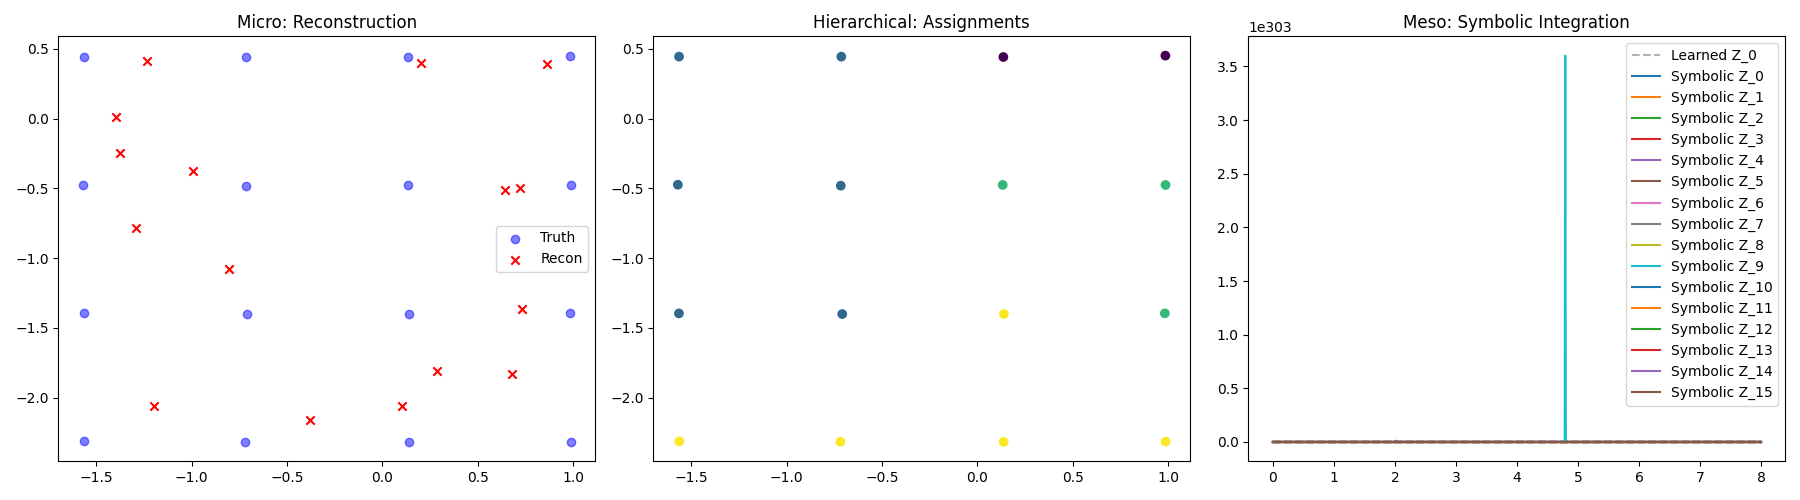
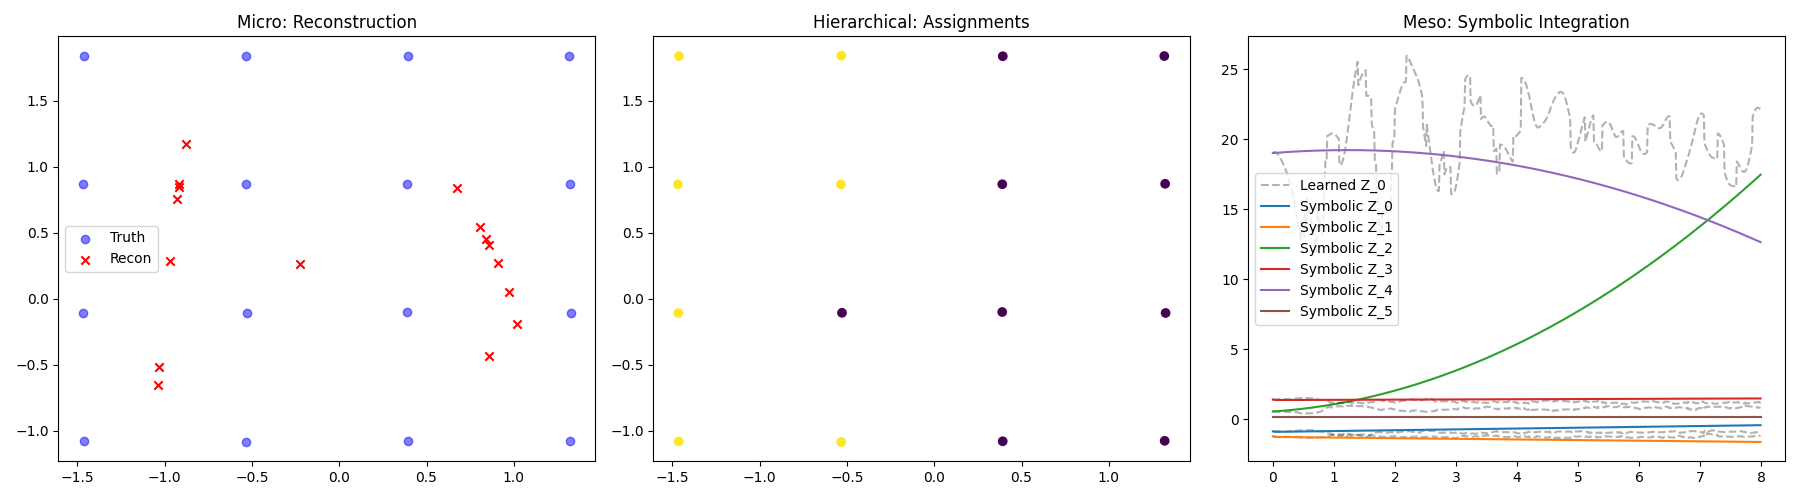
updated

diff --git a/engine.py b/engine.py
@@ -50,7 +50,7 @@ def prepare_data(pos, vel, radius=1.1, stats=None, device='cpu'):
     return dataset, stats
 
 class Trainer:
-    def __init__(self, model, lr=1e-3, device='cpu', loss_weights=None, stats=None):
+    def __init__(self, model, lr=5e-4, device='cpu', loss_weights=None, stats=None):
         self.model = model.to(device)
         self.device = device
         
@@ -69,70 +69,96 @@ class Trainer:
             'rec': 1.0,
             'cons': 5.0,
             'assign': 2.0,
+            'ortho': 1.0,      # New orthogonality loss weight
             'latent_l2': 0.01  # Added to prevent state drift
         }
         if loss_weights is not None:
             default_weights.update(loss_weights)
         self.weights = default_weights
 
-    def train_step(self, data_list, dt, epoch=0):
+    def train_step(self, data_list, dt, epoch=0, teacher_forcing_ratio=0.5):
         self.optimizer.zero_grad()
         seq_len = len(data_list)
         
+        # Anneal Gumbel-Softmax temperature
+        tau = max(0.1, 1.0 - epoch / 2000.0)
+        
+        # Warmup phase: Only Reconstruction loss for the first 100 epochs
+        is_warmup = epoch < 100
+        
         # 1. Encode the first state
         batch_0 = Batch.from_data_list([data_list[0]]).to(self.device)
-        z_0, s_0, entropy_0 = self.model.encode(batch_0.x, batch_0.edge_index, batch_0.batch)
-        
-        # 2. Predict full sequence in latent space
-        t_span = torch.linspace(0, (seq_len - 1) * dt, seq_len, device=self.device, dtype=torch.float32)
-        z_pred_seq = self.model.forward_dynamics(z_0, t_span)
+        z_curr, s_0, entropy_0 = self.model.encode(batch_0.x, batch_0.edge_index, batch_0.batch, tau=tau)
         
         loss_rec = 0
         loss_cons = 0
-        loss_assign = entropy_0 # Initialize with first entropy
-        loss_l2 = torch.mean(z_pred_seq**2) # Penalize large latent values to ground the space
+        loss_assign = entropy_0
+        loss_ortho = self.model.get_ortho_loss(s_0)
+        loss_l2 = 0
         
         s_prev = s_0
+        
+        # Prediction sequence for integration
+        z_preds = [z_curr]
+        
+        for t in range(1, seq_len):
+            # Teacher Forcing: Occasionally use ground truth encoding as next step input
+            if not is_warmup and np.random.random() < teacher_forcing_ratio:
+                batch_t_prev = Batch.from_data_list([data_list[t-1]]).to(self.device)
+                z_curr, _, _ = self.model.encode(batch_t_prev.x, batch_t_prev.edge_index, batch_t_prev.batch, tau=tau)
+            
+            # Predict next latent state via ODE
+            t_span = torch.tensor([0, dt], device=self.device, dtype=torch.float32)
+            z_next_seq = self.model.forward_dynamics(z_curr, t_span)
+            z_curr = z_next_seq[1] # Next step prediction
+            z_preds.append(z_curr)
+            
+        z_preds = torch.stack(z_preds)
+        loss_l2 = torch.mean(z_preds**2)
         
         for t in range(seq_len):
             batch_t = Batch.from_data_list([data_list[t]]).to(self.device)
             
+            # Encode target for consistency check
+            z_t_target, s_t, entropy_t = self.model.encode(batch_t.x, batch_t.edge_index, batch_t.batch, tau=tau)
+            
             # Reconstruction loss at each step
-            _, s_t, entropy_t = self.model.encode(batch_t.x, batch_t.edge_index, batch_t.batch)
-            recon_t = self.model.decode(z_pred_seq[t], s_t, batch_t.batch)
+            recon_t = self.model.decode(z_preds[t], s_t, batch_t.batch)
             loss_rec += self.criterion(recon_t, batch_t.x)
             
-            # Assignment consistency loss: minimize change in super-node identity
-            # AND diversity loss (entropy)
+            # Assignment and Orthogonality losses
             loss_assign += entropy_t
+            loss_ortho += self.model.get_ortho_loss(s_t)
+            
             if t > 0:
                 loss_assign += self.criterion(s_t, s_prev)
                 # Consistency loss (encoding of real state vs predicted latent state)
-                z_t_target, _, _ = self.model.encode(batch_t.x, batch_t.edge_index, batch_t.batch)
-                loss_cons += self.criterion(z_pred_seq[t], z_t_target)
+                loss_cons += self.criterion(z_preds[t], z_t_target)
             
             s_prev = s_t
         
         loss_rec /= seq_len
         loss_cons /= (seq_len - 1)
         loss_assign /= seq_len
+        loss_ortho /= seq_len
         
-        # Dynamic Loss Weighting: Faster annealing to ensure dynamics are learned early
-        anneal = min(1.0, epoch / 800.0) if epoch > 50 else 0.1
-        
-        # Apply configurable weights
-        # We increase the importance of consistency dynamically if it's lagging
-        cons_weight = self.weights['cons']
-        if loss_cons.item() > loss_rec.item() * 5: # Lowered threshold for boost
-            cons_weight *= 2.0
+        # Dynamic Loss Weighting
+        if is_warmup:
+            loss = self.weights['rec'] * loss_rec + self.weights['assign'] * loss_assign
+        else:
+            anneal = min(1.0, (epoch - 100) / 700.0)
+            
+            cons_weight = self.weights['cons']
+            if loss_cons.item() > loss_rec.item() * 5:
+                cons_weight *= 2.0
 
-        loss = (self.weights['rec'] * loss_rec + 
-                anneal * (cons_weight * loss_cons + 
-                         self.weights['latent_l2'] * loss_l2) +
-                self.weights['assign'] * loss_assign)
+            loss = (self.weights['rec'] * loss_rec + 
+                    anneal * (cons_weight * loss_cons + 
+                             self.weights['latent_l2'] * loss_l2) +
+                    self.weights['assign'] * loss_assign +
+                    self.weights['ortho'] * loss_ortho)
         
         loss.backward()
-        # Gradient Clipping to handle exploding gradients from ODE solver
         torch.nn.utils.clip_grad_norm_(self.model.parameters(), max_norm=1.0)
         self.optimizer.step()
         

diff --git a/model.py b/model.py
@@ -10,6 +10,8 @@ class GNNLayer(MessagePassing):
         self.mlp = nn.Sequential(
             nn.Linear(2 * in_channels, out_channels),
             nn.ReLU(),
+            nn.Linear(out_channels, out_channels),
+            nn.ReLU(),
             nn.Linear(out_channels, out_channels)
         )
 
@@ -24,6 +26,7 @@ class HierarchicalPooling(nn.Module):
     """
     Learned soft-assignment pooling to preserve spatial locality 
     by aggregating nodes into a fixed number of super-nodes.
+    Uses Gumbel-Softmax for 'harder' assignments.
     """
     def __init__(self, in_channels, n_super_nodes):
         super(HierarchicalPooling, self).__init__()
@@ -34,16 +37,18 @@ class HierarchicalPooling(nn.Module):
             nn.Linear(in_channels, n_super_nodes)
         )
 
-    def forward(self, x, batch):
+    def forward(self, x, batch, tau=1.0, hard=False):
         # x: [N, in_channels], batch: [N]
-        # Compute soft-assignment matrix s: [N, n_super_nodes]
-        s = torch.softmax(self.assign_mlp(x), dim=-1)
+        # Compute assignment logits
+        logits = self.assign_mlp(x)
+        
+        # Use Gumbel-Softmax for harder, more distinct assignments
+        s = nn.functional.gumbel_softmax(logits, tau=tau, hard=hard, dim=-1)
         
         # 1. Sharpness Loss (Minimize entropy per node)
         entropy = -torch.mean(torch.sum(s * torch.log(s + 1e-9), dim=1))
         
         # 2. Diversity Loss (Maximize entropy of average assignment)
-        # We add the negative entropy of the average assignment to the loss
         avg_s = s.mean(dim=0)
         diversity_loss = torch.sum(avg_s * torch.log(avg_s + 1e-9))
         
@@ -76,12 +81,12 @@ class GNNEncoder(nn.Module):
             nn.Linear(hidden_dim, latent_dim)
         )
 
-    def forward(self, x, edge_index, batch):
+    def forward(self, x, edge_index, batch, tau=1.0):
         x = self.ln1(torch.relu(self.gnn1(x, edge_index)))
         x = self.ln2(torch.relu(self.gnn2(x, edge_index)))
         
         # Pool to K super-nodes preserving spatial features
-        pooled, s, entropy = self.pooling(x, batch) # [batch_size, n_super_nodes, hidden_dim], [N, n_super_nodes]
+        pooled, s, entropy = self.pooling(x, batch, tau=tau) # [batch_size, n_super_nodes, hidden_dim], [N, n_super_nodes]
         latent = self.output_layer(pooled) # [batch_size, n_super_nodes, latent_dim]
         return latent, s, entropy
 
@@ -142,11 +147,19 @@ class DiscoveryEngineModel(nn.Module):
         self.ode_func = LatentODEFunc(latent_dim, n_super_nodes, hidden_dim)
         self.decoder = GNNDecoder(latent_dim, hidden_dim, node_features)
         
-    def encode(self, x, edge_index, batch):
-        return self.encoder(x, edge_index, batch)
+    def encode(self, x, edge_index, batch, tau=1.0):
+        return self.encoder(x, edge_index, batch, tau=tau)
     
     def decode(self, z, s, batch):
         return self.decoder(z, s, batch)
+    
+    def get_ortho_loss(self, s):
+        # s: [N, n_super_nodes]
+        # Encourage orthogonality between super-node assignment vectors
+        # s^T * s should be close to identity (weighted by number of particles)
+        dots = torch.matmul(s.t(), s)
+        identity = torch.eye(s.size(1), device=s.device) * (s.size(0) / s.size(1))
+        return torch.mean((dots - identity)**2)
     
     def forward_dynamics(self, z0, t):
         # z0: [batch_size, n_super_nodes, latent_dim]

diff --git a/symbolic.py b/symbolic.py
@@ -16,7 +16,7 @@ class SymbolicDistiller:
                                  p_crossover=0.7, p_subtree_mutation=0.1, # Shifted towards crossover
                                  p_hoist_mutation=0.05, p_point_mutation=0.1,
                                  max_samples=0.9, verbose=0, 
-                                 parsimony_coefficient=0.05, # Increased to avoid trivial/overfit laws
+                                 parsimony_coefficient=0.1, # Increased to force simpler, physics-like laws
                                  random_state=42)
 
     def distill(self, latent_states, latent_derivs, times=None):
@@ -29,12 +29,22 @@ class SymbolicDistiller:
         X = (latent_states - z_mean) / z_std
         Y = (latent_derivs - dz_mean) / dz_std
 
+        # Feature Engineering: Add squared terms and interaction terms
+        n_features = X.shape[1]
+        features = [X]
+        for i in range(n_features):
+            features.append((X[:, i]**2).reshape(-1, 1))
+            for j in range(i + 1, n_features):
+                features.append((X[:, i] * X[:, j]).reshape(-1, 1))
+        
+        X_poly = np.hstack(features)
+
         if times is not None:
             # Normalize times as well if provided
             t_mean = times.mean()
             t_std = times.std() + 1e-6
             t_norm = (times - t_mean) / t_std
-            X = np.column_stack([X, t_norm])
+            X_poly = np.column_stack([X_poly, t_norm])
 
         equations = []
         for i in range(latent_derivs.shape[1]):
@@ -44,17 +54,16 @@ class SymbolicDistiller:
             
             print(f"Distilling dz_{i}/dt (Coarse search: pop={coarse_pop}, gen={coarse_gen})...")
             est = self._get_regressor(coarse_pop, coarse_gen)
-            est.fit(X, Y[:, i])
+            est.fit(X_poly, Y[:, i])
             
             # Check fit quality (if possible via gplearn score)
-            # score is R^2. If > 0.95, it's likely good enough.
-            if est.score(X, Y[:, i]) > 0.95:
-                print(f"  -> Good fit found in coarse search (R^2={est.score(X, Y[:, i]):.3f})")
+            if est.score(X_poly, Y[:, i]) > 0.95:
+                print(f"  -> Good fit found in coarse search (R^2={est.score(X_poly, Y[:, i]):.3f})")
                 equations.append(est._program)
             else:
-                print(f"  -> Low fit (R^2={est.score(X, Y[:, i]):.3f}). Escalating to Fine search...")
+                print(f"  -> Low fit (R^2={est.score(X_poly, Y[:, i]):.3f}). Escalating to Fine search...")
                 est = self._get_regressor(self.max_pop, self.max_gen)
-                est.fit(X, Y[:, i])
+                est.fit(X_poly, Y[:, i])
                 equations.append(est._program)
                 
         return equations, (z_mean, z_std, dz_mean, dz_std)

diff --git a/main.py b/main.py
@@ -22,11 +22,11 @@ def main():
 
     # 1. Setup Parameters
     n_particles = 16
-    n_super_nodes = 2
+    n_super_nodes = 4
     latent_dim = 2 
     steps = 800
     epochs = 5000
-    seq_len = 12
+    seq_len = 20
     dynamic_radius = 1.5 
     box_size = None # Disable PBC for stability
     
@@ -50,10 +50,11 @@ def main():
         'rec': 100.0,     
         'cons': 50.0,    
         'assign': 10.0,   
+        'ortho': 5.0,     
         'latent_l2': 0.1 
     }
     
-    trainer = Trainer(model, lr=8e-4, device=device, 
+    trainer = Trainer(model, lr=5e-4, device=device, 
                       loss_weights=loss_weights, stats=stats)
     
     # Increased patience and adjusted factor
@@ -96,10 +97,19 @@ def main():
     def symbolic_dynamics(z, t):
         # Normalize input
         z_norm = (z - z_mean) / z_std
-        z_input = z_norm.reshape(1, -1)
+        X = z_norm.reshape(1, -1)
+        
+        # Feature Engineering for integration
+        n_features = X.shape[1]
+        features = [X]
+        for i in range(n_features):
+            features.append((X[:, i]**2).reshape(-1, 1))
+            for j in range(i + 1, n_features):
+                features.append((X[:, i] * X[:, j]).reshape(-1, 1))
+        X_poly = np.hstack(features)
         
         # Execute symbolic equations
-        dzdt_norm = np.array([eq.execute(z_input)[0] for eq in equations])
+        dzdt_norm = np.array([eq.execute(X_poly)[0] for eq in equations])
         
         # Denormalize output
         dzdt = dzdt_norm * dz_std + dz_mean
